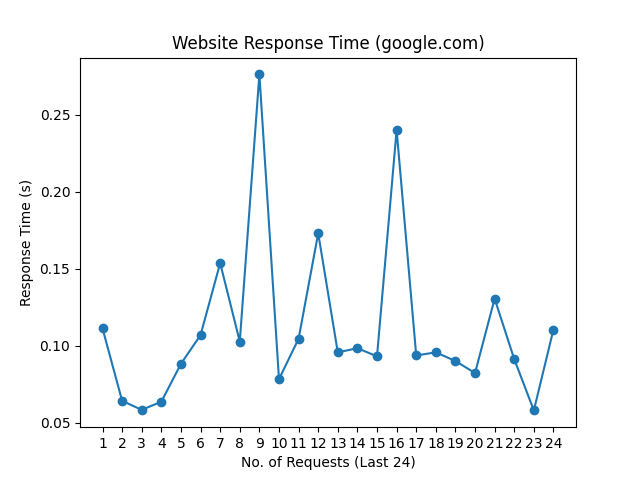
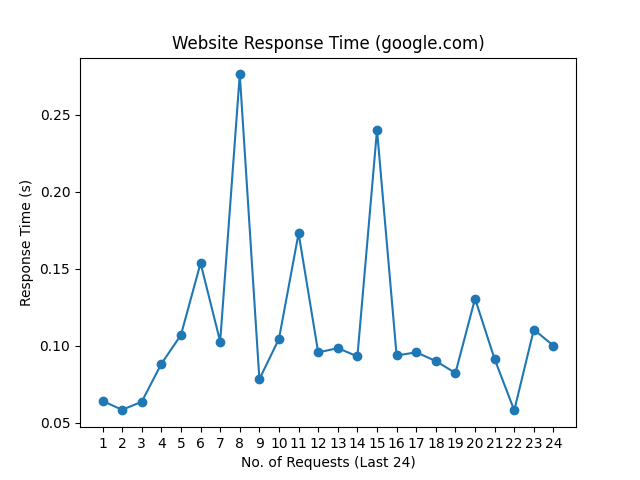
update README.md, history and graph

Changed region(s): [[0.1562, 0.125, 0.875, 0.875]]

diff --git a/README.md b/README.md
@@ -1,10 +1,10 @@
 # Web Monitoring
 
-Last Checked: 28/08/2023 08:59
+Last Checked: 29/08/2023 08:59
 
 | Website | Response Time (s) | Status | Avg Uptime (%) |
 |---------|-------------------|--------|----------------|
 | www.thiswebsiteisdown.net | 0 <br> <img src="graph/thiswebsiteisdown.net.png" alt="Graph" width="200" height="200">  | ❌ Down | 0.00 |
-| www.netflix.com | 1.008097 <br> <img src="graph/netflix.com.png" alt="Graph" width="200" height="200">  | ✅ Up | 100.00 |
-| www.google.com | 0.110417 <br> <img src="graph/google.com.png" alt="Graph" width="200" height="200">  | ✅ Up | 100.00 |
-| www.facebook.com | 0.509548 <br> <img src="graph/facebook.com.png" alt="Graph" width="200" height="200">  | ✅ Up | 100.00 |
+| www.netflix.com | 1.079531 <br> <img src="graph/netflix.com.png" alt="Graph" width="200" height="200">  | ✅ Up | 100.00 |
+| www.google.com | 0.099944 <br> <img src="graph/google.com.png" alt="Graph" width="200" height="200">  | ✅ Up | 100.00 |
+| www.facebook.com | 0.426828 <br> <img src="graph/facebook.com.png" alt="Graph" width="200" height="200">  | ✅ Up | 100.00 |
